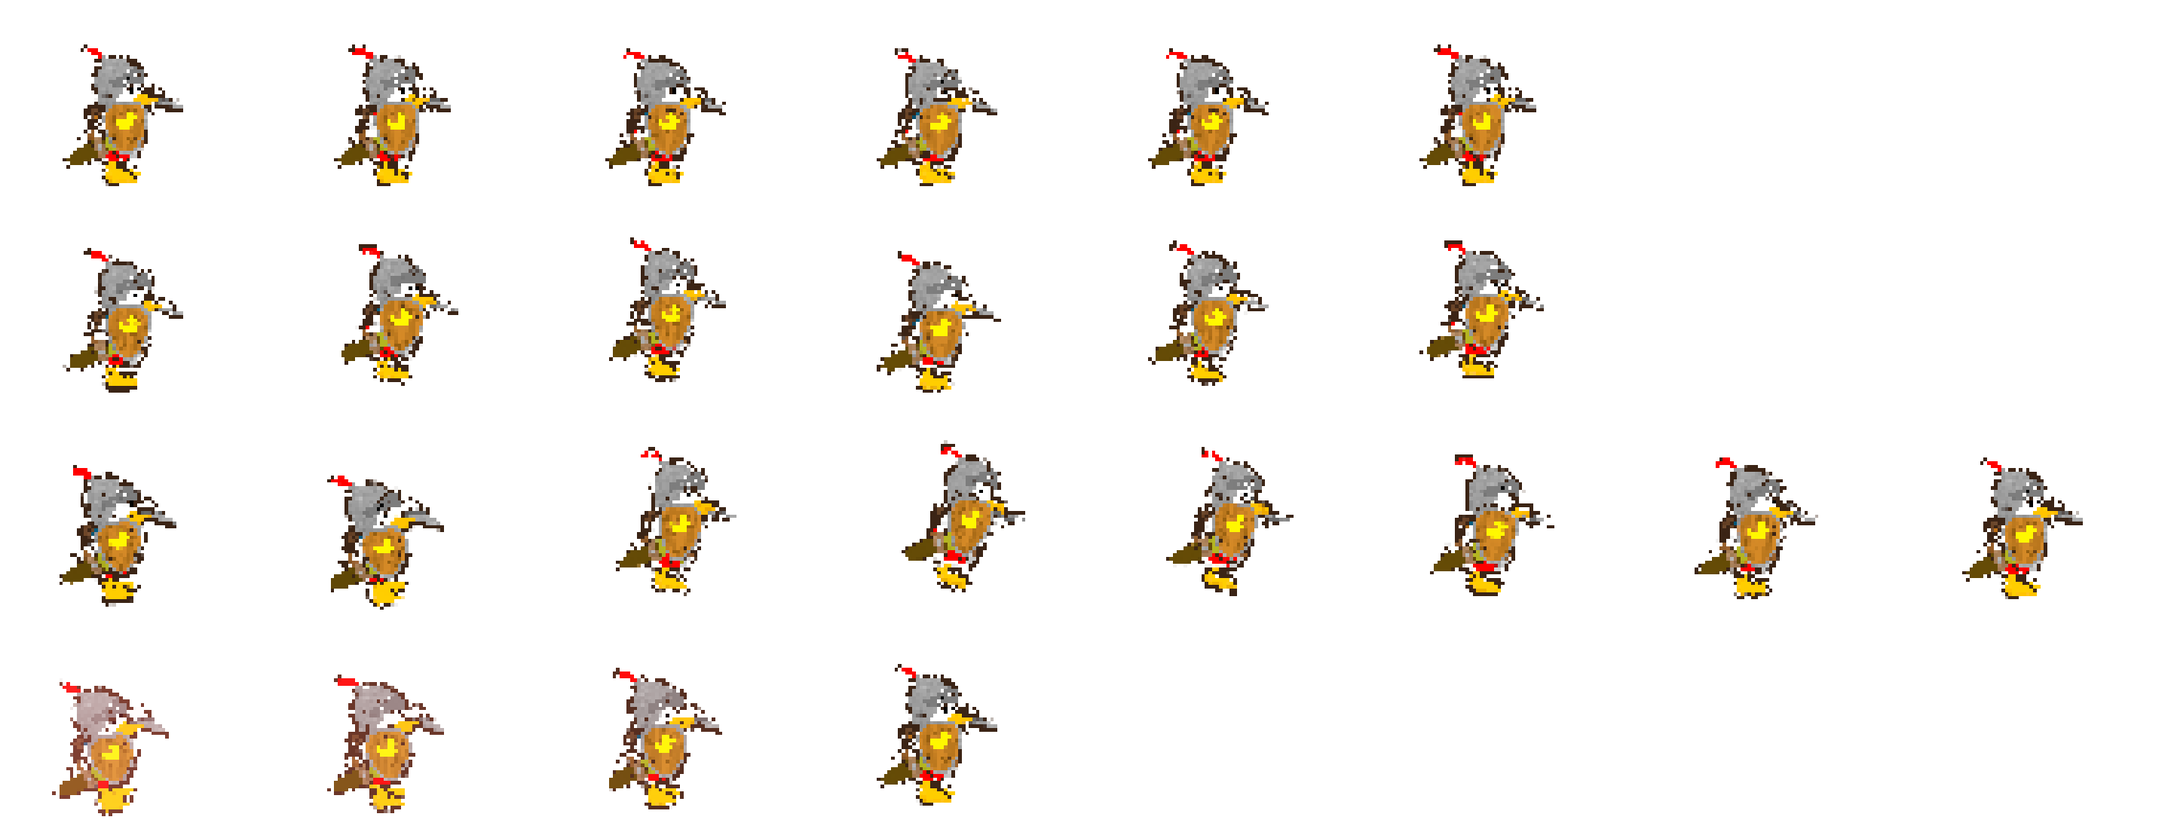
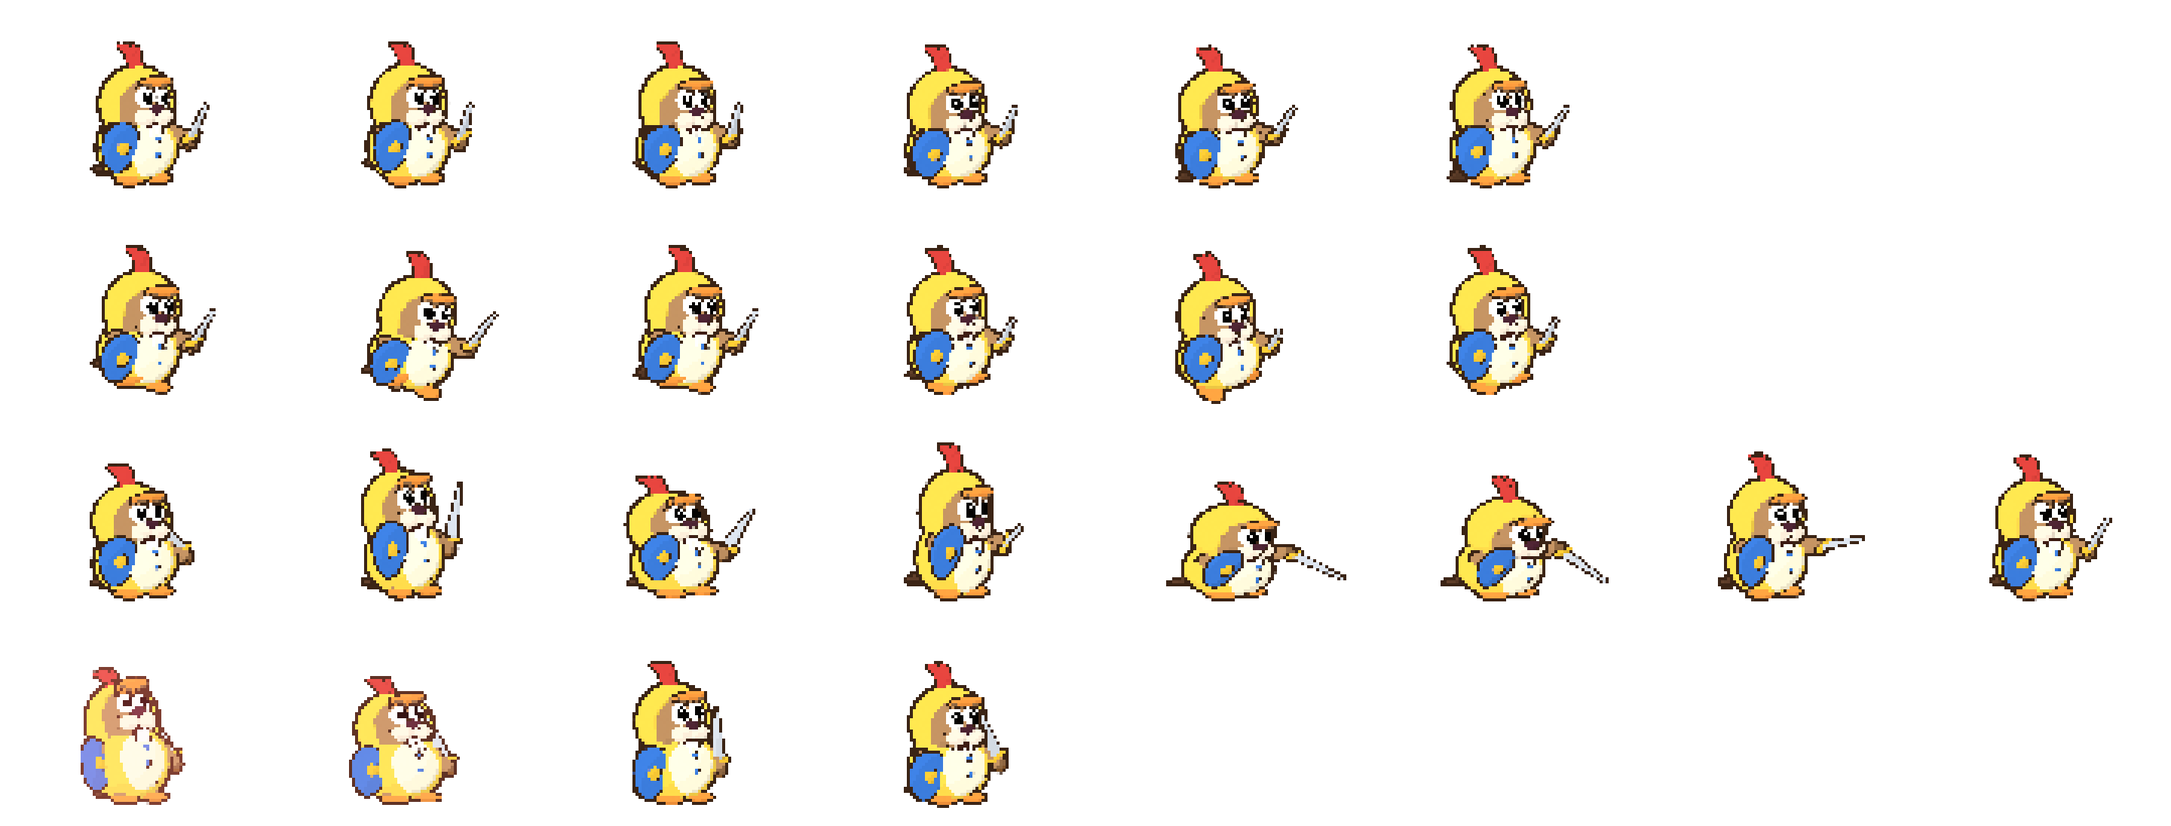
art(allies): 상점 전용 동료 넷을 비버 동료와 같은 몸 + 동물 옷으로 — 종마다 특색 소품
2026-11-26 사용자: "동료들 캐릭터랑 풍 비슷한 리소스로 마저 수정" → 대조 시트를 보고 "Sketchfab 줄은 일관성이 깨진다 · 조금 더 특색 있게".
Sketchfab 동물(토끼 · 고양이 · 기사 오리 · 다람쥐)은 몸 비율 · 그림결이 비버 동료와 따로 놀았다. 같은 비버 몸(beaver_kit)에 주인공 스킨과 같은 두건 옷(lib/suit_kit)을 입히고 종마다 한눈에 갈리는 소품을 더했다.
- suit_kit: cat(작은 세모 귀 · 긴 꼬리) · duck(넓적한 부리 챙 · 꽁지깃) · squirrel(작은 귀 · 머리 높이까지 말린 털 꼬리) + suit_extras(상점 넷만 — 주인공 스킨 그대로):
  보니 = 접힌 한쪽 귀 · 귀 꽃 · 볼 홍조 · 당근 지팡이 / 감자 = 회색 얼굴 · 수염 · 방울 목걸이 · 젤리 앞발 장갑 / 덕 = 붉은 깃 장식 · 주황 물갈퀴 · 방패 · 검 / 레드 = 두건 도토리 · 볼주머니 · 도토리 새총
- beaver.weapon: carrot · slingshot 두 종 더함
- roster_ext 에 넷(역할 · 속성은 allyRoster 그대로), render_anim2 → assemble-anim2(비버 배율 k 0.346 그대로) 셀 · 도트 시트
- sketchfab_monsters MODELS 의 상점 동료 넷 · 크레딧 두 곳의 그 넷 줄은 뺐다(다시 굽으면 Sketchfab 그림으로 덮이지 않게)

검사: verify-systems · verify-no-missing-art · verify-party-motion · verify-ia-move 통과, 사냥터 · 동료 탭 캡처

diff --git a/src/ui/credits.ts b/src/ui/credits.ts
@@ -15,11 +15,6 @@ export const SKETCHFAB_CREDITS: readonly ModelCredit[] = [
   { title: "Cartoon fallen tree", author: "neon_dust", url: "https://sketchfab.com/3d-models/cartoon-fallen-tree-85be5e12759d460cb5f1f0d7a4c109b6", use: "사냥터 바닥 쓰러진 통나무(숲)" },
   { title: "Tree Stump stylized", author: "makcutka250", url: "https://sketchfab.com/3d-models/tree-stump-stylized-adb24e49311b48e69a95c3a5324817ec", use: "사냥터 바닥 그루터기(초원 · 숲)" },
   { title: "Cactus | Pack", author: "YadroGames", url: "https://sketchfab.com/3d-models/cactus-pack-588596f1601d48e6ad4cb24b31c3f33c", use: "사냥터 바닥 선인장(폐허)" },
-  // 상점 전용 동료 넷(2026-11-24, allyRoster shop — 렌더 sketchfab_monsters.py kind='ally', 칸마다 좌우를 뒤집어 오른쪽을 본다)
-  { title: "Cute Bunny", author: "Minimoku", url: "https://sketchfab.com/3d-models/cute-bunny-7d30845d69c4474ebeddd177df6b7f02", use: "상점 동료 '솜털 토끼 보니'" },
-  { title: "Just a Hungry Cat", author: "Coco Jinjo", url: "https://sketchfab.com/3d-models/just-a-hungry-cat-97913cc5c44e4e6793385b988aac97c1", use: "상점 동료 '밤고양이 감자'" },
-  { title: "John, The Knight Duck (Armored)", author: "TheKnightDuck", url: "https://sketchfab.com/3d-models/john-the-knight-duck-armored-f976354f020949bf8cd0380ea0837b14", use: "상점 동료 '방패기사 덕'" },
-  { title: "Low-Poly Squirrel Character (Game-Ready, Rigged)", author: "SomeNortherner", url: "https://sketchfab.com/3d-models/low-poly-squirrel-character-game-ready-rigged-7983c9e011ad427fab0c428ff84b3ddb", use: "상점 동료 '도토리 다람쥐 레드'" },
   // 보석 주인공 캐릭터(2026-11-25, art-gen/blender/lib/sf_rig.py · render_anim2 char@fox — 비버 자세 값을 여우 뼈에 옮겨 렌더)
   { title: "Cartoon Character", author: "MartinDL", url: "https://sketchfab.com/3d-models/cartoon-character-c951392387944060966ac6e8e5cfd2e3", use: "주인공 캐릭터 '여우 모험가'" },
 ];

diff --git a/art-gen/blender/lib/suit_kit.py b/art-gen/blender/lib/suit_kit.py
@@ -4,12 +4,14 @@
 모양은 우리 세계(비버) 것으로 — 참고 그림의 캐릭터를 옮기지 않는다:
   dragon 흑룡(굽은 뿔 둘 · 등 가시 · 꼬리 가시) / chick 새벽 병아리(볏 · 부리 챙 · 작은 날개) /
   fox 여우(큰 세모 귀 · 흰 귀 안 · 흰 끝 꼬리) / bunny 눈토끼(긴 귀 · 솜 꼬리 · 눈송이 단추)
+  상점 동료 넷(2026-11-26, 사용자: "동료들 캐릭터랑 풍 비슷한 리소스로" — Sketchfab 동물 대신 비버 동료와 같은 몸에 옷):
+  cat 고양이(작은 세모 귀 · 길고 가는 꼬리) / duck 오리(넓적한 부리 챙 · 꽁지깃 — 볏 없음) / squirrel 다람쥐(작은 귀 · 크게 말린 털 꼬리)
 돌려주는 것: [(뼈 이름, 물체)]"""
 import math
 from mathutils import Vector, Euler
 
 from lib import bcommon as C
-from lib.beaver import HEAD_C, HEAD_R, BODY_C, BODY_R, OUT, _accent, _shell, spline, interp
+from lib.beaver import HEAD_C, HEAD_R, BODY_C, BODY_R, HAND_L, HAND_R, OUT, _accent, _shell, spline, interp
 
 TOP = HEAD_C + Vector((0, 0.04, HEAD_R[2] * 1.06 + 0.02))
 
@@ -29,6 +31,53 @@ def _ear(name, base, d, L, r, m_out, m_in, coll, flat=0.45):
         rel = v.co - base
         v.co = base + Vector((rel.x, rel.y * flat * 0.5 - r * flat * 0.6, rel.z))
     out.append(oi)
+    return out
+
+
+
+def _extras(kind, cfg, m, ml, ma, coll):
+    """상점 동료 넷의 특색(2026-11-26, 사용자: "조금 더 특색 있는 모델") — 같은 비버 몸 · 옷 위에 종마다 한눈에 갈리는 소품. cfg suit_extras 일 때만(주인공 스킨은 그대로)"""
+    out = []
+    face = HEAD_C + Vector((0, -HEAD_R[1] * 0.86, -0.07))   # 주둥이 둘레(볼) 높이
+    neck = Vector((0, BODY_C.y - 0.01, HEAD_C.z - HEAD_R[2] * 0.86))
+    if kind == 'cat':
+        ink = _accent('whisker', '#2a1e1a', rough=0.6)
+        for sx in (-1, 1):   # 수염 셋 — 볼에서 바깥으로 살짝 퍼진다
+            for k, dz in enumerate((0.03, 0.0, -0.03)):
+                a = face + Vector((sx * 0.1, -0.02, dz))
+                b = a + Vector((sx * 0.17, 0.03, dz * 1.6))
+                out.append(('head', C.mesh_obj(f'whisker{sx}{k}', C.tube([a, b], 0.006, seg=5), ink, coll)))
+        out.append(('body', C.mesh_obj('collar', C.torus(neck, 0.21, 0.025, seg=36), _accent('collar', '#d8403a', rough=0.5), coll, outline=OUT * 0.5)))
+        bell = neck + Vector((0, -0.21, -0.03))
+        out.append(('body', C.mesh_obj('bell', C.ellipsoid(bell, (0.045, 0.045, 0.045)), _accent('bell', '#f2c232', rough=0.3, metal=0.7), coll, outline=OUT * 0.5)))
+        pad = _accent('pad', '#ffb0c4', rough=0.6)
+        for side, hp in (('L', HAND_L), ('R', HAND_R)):   # 큰 앞발 장갑 + 분홍 젤리
+            out.append((f'hand.{side}', C.mesh_obj(f'mitt{side}', C.ellipsoid(hp + Vector((0, -0.01, 0)), (0.085, 0.08, 0.08)), ml, coll, outline=OUT * 0.7)))
+            out.append((f'hand.{side}', C.mesh_obj(f'mittpad{side}', C.ellipsoid(hp + Vector((0, -0.08, -0.005)), (0.04, 0.012, 0.035)), pad, coll)))
+    elif kind == 'duck':
+        top = TOP + Vector((0, 0.02, 0.0))
+        for k in range(3):   # 기사 깃털 장식 — 정수리에서 뒤로 넘어가는 붉은 깃 셋
+            pts = spline([top + Vector(((k - 1) * 0.03, 0, -0.02)), top + Vector(((k - 1) * 0.04, 0.08, 0.12)), top + Vector(((k - 1) * 0.06, 0.2, 0.16))], 10)
+            out.append(('head', C.mesh_obj(f'plume{k}', C.tube(pts, interp([0.035, 0.04, 0.012], len(pts)), seg=10), _accent('plume', '#d8403a', rough=0.6), coll, outline=OUT * 0.6)))
+        web = _accent('web', '#ff9a3d', rough=0.5)
+        for sx, side in ((-1, 'R'), (1, 'L')):   # 주황 물갈퀴 발
+            out.append((f'leg.{side}', C.mesh_obj(f'web{side}', C.ellipsoid(Vector((sx * 0.15, -0.12, 0.024)), (0.11, 0.14, 0.032)), web, coll, outline=OUT * 0.7)))
+    elif kind == 'squirrel':
+        nut = TOP + Vector((0.0, 0.02, 0.06))   # 두건 꼭대기 도토리
+        out.append(('head', C.mesh_obj('hood_acorn', C.ellipsoid(nut, (0.06, 0.06, 0.075), egg=-0.3), _accent('nut', '#c8783a', rough=0.45), coll, outline=OUT * 0.6)))
+        out.append(('head', C.mesh_obj('hood_acorn_cap', C.ellipsoid(nut + Vector((0, 0, 0.05)), (0.068, 0.068, 0.035)), _accent('cap', '#7a4a26', rough=0.7), coll, outline=OUT * 0.5)))
+        for sx in (-1, 1):   # 볼주머니 — 도토리를 문 통통한 볼
+            out.append(('head', C.mesh_obj(f'pouch{sx}', C.ellipsoid(face + Vector((sx * 0.13, 0.02, -0.01)), (0.07, 0.05, 0.055)), ml, coll, outline=OUT * 0.4)))
+    elif kind == 'bunny':
+        flower = TOP + Vector((-0.16, -0.02, 0.02))   # 귀 밑동 꽃 한 송이
+        petal = _accent('petal', '#ff9ab8', rough=0.6)
+        for k in range(5):
+            a = 2 * math.pi * k / 5
+            out.append(('head', C.mesh_obj(f'petal{k}', C.ellipsoid(flower + Vector((math.cos(a) * 0.035, -0.01, math.sin(a) * 0.035)), (0.025, 0.01, 0.025)), petal, coll, outline=OUT * 0.3)))
+        out.append(('head', C.mesh_obj('petal_core', C.ellipsoid(flower + Vector((0, -0.02, 0)), (0.018, 0.01, 0.018)), _accent('core', '#ffd34d', rough=0.5), coll)))
+        blush = _accent('blush', '#ffb0c4', rough=0.7)
+        for sx in (-1, 1):
+            out.append(('head', C.mesh_obj(f'blush{sx}', C.ellipsoid(face + Vector((sx * 0.15, -0.005, 0.02)), (0.04, 0.008, 0.025)), blush, coll)))
     return out
 
 
@@ -88,10 +137,21 @@ def build(cfg, coll):
     elif kind == 'fox':
         for sx in (-1, 1):
             out.extend(('head', o) for o in _ear(f'suit_ear{sx}', TOP + Vector((sx * 0.2, 0.0, -0.08)), (sx * 0.42, 0.05, 1), 0.24, 0.1, m, ml, coll))
+    elif kind == 'cat':
+        for sx in (-1, 1):
+            out.extend(('head', o) for o in _ear(f'suit_ear{sx}', TOP + Vector((sx * 0.19, 0.0, -0.07)), (sx * 0.32, 0.05, 1), 0.17, 0.085, m, ml, coll))
+    elif kind == 'squirrel':
+        for sx in (-1, 1):
+            out.extend(('head', o) for o in _ear(f'suit_ear{sx}', TOP + Vector((sx * 0.17, 0.02, -0.06)), (sx * 0.22, 0.04, 1), 0.13, 0.075, m, ml, coll, flat=0.6))
+    elif kind == 'duck':   # 넓적한 부리 챙 — 이마 위 두건 앞 가장자리에서 앞으로 납작하게
+        bp, bn = C.on_ellipsoid(HEAD_C + Vector((0, 0.04, 0.02)), (HEAD_R[0] * 1.08, HEAD_R[1] * 1.1, HEAD_R[2] * 1.06), Vector((0, -1, 0.9)))
+        out.append(('head', C.mesh_obj('suit_bill', C.ellipsoid(bp + bn * 0.05 + Vector((0, -0.03, -0.02)), (0.16, 0.1, 0.035), rot=Euler((math.radians(-18), 0, 0))), _accent('suitbk', '#ff9a3d', rough=0.4), coll, outline=OUT * 0.6)))
     elif kind == 'bunny':
         for sx in (-1, 1):
             base = TOP + Vector((sx * 0.12, 0.02, -0.04))
             pts = spline([base, base + Vector((sx * 0.06, 0.02, 0.16)), base + Vector((sx * 0.16, 0.08, 0.26))], 12)   # 끝이 옆으로 늘어진 긴 귀
+            if cfg.get('suit_extras') and sx > 0:   # 상점 보니 — 한쪽 귀가 접혀 내려온다
+                pts = spline([base, base + Vector((0.08, 0.02, 0.14)), base + Vector((0.22, 0.06, 0.1)), base + Vector((0.28, 0.08, -0.02))], 12)
             out.append(('head', C.mesh_obj(f'suit_ear{sx}', C.tube(pts, interp([0.06, 0.065, 0.04], len(pts)), seg=12), m, coll, outline=OUT * 0.8)))
             inner = [q + Vector((0, -0.035, 0)) for q in pts]
             out.append(('head', C.mesh_obj(f'suit_earin{sx}', C.tube(inner, interp([0.03, 0.035, 0.018], len(inner)), seg=10), _accent('suitpink', '#ffc4d6', rough=0.7), coll)))
@@ -103,8 +163,18 @@ def build(cfg, coll):
         out.append(('tail', C.mesh_obj('suit_tailtip', C.ellipsoid(pts[-1] + Vector((0, -0.01, 0.02)), (0.07, 0.07, 0.08), egg=0.2), ml, coll, outline=OUT * 0.7)))
     elif kind == 'bunny':
         out.append(('tail', C.mesh_obj('suit_tail', C.ellipsoid(tb + Vector((0, 0.02, 0.06)), (0.09, 0.08, 0.09)), ml, coll, outline=OUT * 0.7)))
-    elif kind == 'chick':
+    elif kind == 'cat':   # 길고 가는 꼬리 — 뒤로 뻗었다 위로 휘고 끝이 밝다
+        pts = spline([tb, tb + Vector((0, 0.14, 0.02)), tb + Vector((0.02, 0.24, 0.16)), tb + Vector((0.03, 0.22, 0.32)), tb + Vector((0.02, 0.14, 0.4))], 16)
+        out.append(('tail', C.mesh_obj('suit_tail', C.tube(pts, interp([0.045, 0.04, 0.036, 0.034], len(pts)), seg=12), m, coll, outline=OUT)))
+        out.append(('tail', C.mesh_obj('suit_tailtip', C.ellipsoid(pts[-1], (0.045, 0.045, 0.05)), ml, coll, outline=OUT * 0.6)))
+    elif kind == 'squirrel':   # 크게 말린 털 꼬리 — 등을 따라 머리 높이까지 S 자로, 굵다
+        pts = spline([tb, tb + Vector((0, 0.14, 0.04)), tb + Vector((0, 0.3, 0.22)), tb + Vector((0, 0.34, 0.48)), tb + Vector((0, 0.24, 0.7)), tb + Vector((0, 0.12, 0.74))], 22)   # 머리 높이까지 — 낮으면 3/4 화면에서 몸 뒤에 숨었다
+        out.append(('tail', C.mesh_obj('suit_tail', C.tube(pts, interp([0.07, 0.14, 0.18, 0.17, 0.13, 0.07], len(pts)), seg=16), m, coll, outline=OUT)))
+        out.append(('tail', C.mesh_obj('suit_tailin', C.tube([q + Vector((0, -0.06, 0)) for q in pts[5:18]], interp([0.06, 0.1, 0.07], 13), seg=12), ml, coll)))
+    elif kind in ('chick', 'duck'):
         for k in range(3):
             d = Vector(((k - 1) * 0.5, 1, 0.6)).normalized()
             out.append(('tail', C.mesh_obj(f'suit_tf{k}', C.ellipsoid(tb + d * 0.08, (0.03, 0.08, 0.03), rot=C.look_rot(d)), m, coll, outline=OUT * 0.5)))
+    if cfg.get('suit_extras'):
+        out.extend(_extras(kind, cfg, m, ml, ma, coll))
     return out

diff --git a/art-gen/blender/lib/beaver.py b/art-gen/blender/lib/beaver.py
@@ -325,6 +325,24 @@ def weapon(kind, at, coll, color='#cfd6df', accent='#8a5a2b'):
         out.append(C.mesh_obj('g_handle', C.tube([g + Vector((0, 0, -0.04)), g + Vector((0, 0, 0.14))], 0.018, seg=12), wood, coll, outline=OUT * 0.6))
         out.append(C.mesh_obj('g_ring', C.torus(g + Vector((0, 0, 0.23)), 0.08, 0.016, rot=Euler((math.radians(90), 0, 0))), gold, coll, outline=OUT * 0.5))
         out.append(C.mesh_obj('g_lens', C.ellipsoid(g + Vector((0, 0, 0.23)), (0.07, 0.01, 0.07)), _accent('lens', color, rough=0.05, emit=color, es=1.0), coll))
+    elif kind == 'carrot':   # 당근 지팡이(상점 동료 보니, 2026-11-26) — 아래 뾰족한 끝을 쥐고 위로 굵어지는 주황 몸 · 홈 · 초록 잎 셋
+        orange = _accent('carrot', '#ff8a2a', rough=0.5)
+        out.append(C.mesh_obj('carrot', C.cone(g + Vector((0, 0, 0.13)), 0.0, 0.075, 0.36, seg=16, rot=Euler((math.pi, 0, 0))), orange, coll, outline=OUT * 0.7))
+        for k, z in enumerate((0.06, 0.14, 0.22)):
+            out.append(C.mesh_obj(f'carrot_ring{k}', C.torus(g + Vector((0, 0, z)), 0.02 + 0.045 * (z + 0.05) / 0.36, 0.006, seg=24), _accent('carrotln', '#d8661a', rough=0.6), coll))
+        for k in range(3):
+            a = (k - 1) * 0.45
+            out.append(C.mesh_obj(f'carrot_leaf{k}', C.ellipsoid(g + Vector((math.sin(a) * 0.05, 0, 0.36 + math.cos(a) * 0.06)), (0.025, 0.012, 0.075), rot=Euler((0, a, 0))), _accent('leaf', '#5ac83a', rough=0.5), coll, outline=OUT * 0.5))
+    elif kind == 'slingshot':   # 새총(상점 동료 레드, 2026-11-26) — Y 자 나무 · 고무줄 · 도토리 한 알
+        out.append(C.mesh_obj('ss_grip', C.tube([g + Vector((0, 0, -0.06)), g + Vector((0, 0, 0.1))], 0.022, seg=10), wood, coll, outline=OUT * 0.6))
+        tips = [g + Vector((sx * 0.08, 0, 0.24)) for sx in (-1, 1)]
+        for k, t in enumerate(tips):
+            out.append(C.mesh_obj(f'ss_prong{k}', C.tube([g + Vector((0, 0, 0.1)), t], 0.02, seg=10), wood, coll, outline=OUT * 0.6))
+        pouch = g + Vector((0, 0.05, 0.2))
+        for k, t in enumerate(tips):
+            out.append(C.mesh_obj(f'ss_band{k}', C.tube([t, pouch], 0.008, seg=6), _accent('band', '#d8403a', rough=0.5), coll))
+        out.append(C.mesh_obj('ss_acorn', C.ellipsoid(pouch + Vector((0, 0.01, -0.01)), (0.035, 0.035, 0.042), egg=-0.3), _accent('nut', '#c8783a', rough=0.45), coll, outline=OUT * 0.5))
+        out.append(C.mesh_obj('ss_cap', C.ellipsoid(pouch + Vector((0, 0.01, 0.02)), (0.04, 0.04, 0.02)), _accent('cap', '#7a4a26', rough=0.7), coll, outline=OUT * 0.4))
     # 굵기만 (2026-11-19 리소스 피드백 ⑤: 사냥터 88px 에서 무기가 가는 막대라 손에 든 게 거의 안 보였다) — 칼날 · 자루 · 손잡이를 무기 축(+Z)에 수직으로만 키운다
     th = WEAPON_THICK.get(kind, 1.0)
     if th != 1.0:

diff --git a/art-gen/blender/roster_ext.py b/art-gen/blender/roster_ext.py
@@ -67,6 +67,12 @@ NEW_ALLIES = {
     'leviathan': dict(TEAL, form=dict(body=(1.0, 1.28), eyes='sharp'), aura='double', aura_color='#3ae0ff', hat='crown', hat_color='#3ae0ff', band='#1a6ad8', over='finears', over_color='#5ae8ff', back='fin', back_color='#2ab8d8', tail_fx='fish', tail_color='#3ae0ff', weapon_l='trident', weapon_color='#7af0ff', role='melee'),   # 바다 왕 — 지느러미 귀 · 등지느러미 · 물고기 꼬리
     # ── 월간 한정 (2026-11-16, src/titans/limitedAllies.ts) — 신화 등급 장식(후광 고리 · 큰 날개)에 단풍 테마 ──
     'autumn': dict(RUST, form=dict(body=(0.9, 1.18), ears='tufted', eyes='sharp', tail='plume'), hat='leaf', hat_color='#e0602a', hat_color2='#a8401c', scarf='#f2c232', back='leafwings', back_color='#e0602a', back_color2='#f2a23a', wing_len=0.5, aura='ring', aura_color='#f29a2a', weapon_l='bow', weapon_color='#8a5a2b', role='bow'),   # 단풍 사냥꾼 — 큰 단풍잎 모자 · 낙엽 날개
+    # ── 상점 전용 넷 (2026-11-26, 사용자: "동료들 캐릭터랑 풍 비슷한 리소스로 마저 수정") — Sketchfab 동물(sketchfab_monsters kind='ally')은
+    # 그림결 · 몸 비율이 비버 동료와 따로 놀았다. 같은 비버 몸에 동물 옷(lib/suit_kit — 주인공 스킨과 같은 두건 옷)을 입힌다. 고양이 · 다람쥐는 옷 꼬리만(비버 노 꼬리 숨김)
+    'bunny': dict(PALE, form=dict(ears='none', eyes='sleepy'), suit='bunny', suit_extras=True, hat_color='#f6efe6', suit_light='#ffffff', suit_accent='#ff9ab8', weapon_r='carrot', role='healer'),   # 희귀 바람 치유 — 솜털 토끼 옷 · 접힌 한쪽 귀 · 귀 꽃 · 볼 홍조 · 당근 지팡이
+    'cat': dict(GRAY, form=dict(ears='none', eyes='sharp', tail='none'), suit='cat', suit_extras=True, hat_color='#3c3870', suit_light='#f2e6d0', suit_accent='#ffd34d', role='melee'),   # 희귀 불 근접 — 밤고양이 옷 · 수염 · 방울 목걸이 · 큰 앞발 장갑(젤리) 냥냥 펀치
+    'duck': dict(PALE, form=dict(ears='none', brows='fierce'), suit='duck', suit_extras=True, hat_color='#ffd84a', suit_light='#fff6d8', suit_accent='#3a7ad8', trim='#f2c232', weapon_r='sword', weapon_l='shield', weapon_l_color='#3a7ad8', role='tank'),   # 영웅 물 탱커 — 오리 옷 · 파란 방패 · 검
+    'squirrel': dict(RUST, form=dict(ears='none', tail='none'), suit='squirrel', suit_extras=True, hat_color='#c8562a', suit_light='#fff0dc', suit_accent='#7a4a26', trim='#f2c232', weapon_l='slingshot', role='bow'),   # 영웅 흙 원거리 — 붉은 다람쥐 옷 · 말린 꼬리 · 두건 도토리 · 볼주머니 · 도토리 새총
 }
 
 # 주 무기를 weapon_l(적 쪽 손)에 바로 적은 줄은 색도 weapon_l_color 로 옮긴다(anim2.main_left 는 weapon_r 가 있을 때만 바꾼다)

diff --git a/art-gen/blender/sketchfab_monsters.py b/art-gen/blender/sketchfab_monsters.py
@@ -54,11 +54,7 @@ MODELS = {
     'sf-werewolf': dict(file='b-werewolf.glb', h=1.6, yaw=-25, lift=0.0, action='Idle', boss=True),
     'sf-treefellow': dict(file='b-treefellow.glb', h=1.7, yaw=-60, lift=0.0, boss=True),
     # sf-stonegiant(b-bigguy.glb, Big Guy)은 셀로 그리면 머리 없이 검게 나와 뺐다
-    # 상점 전용 동료(2026-11-24, kind='ally') — 폴더 이름 = 동료 id(allyRoster NEW_ALLIES). 남의 콘셉트를 옮긴 모델 · 다른 IP 태그 모델은 뺐다
-    'bunny': dict(file='a-bunny.glb', h=1.0, yaw=-35, lift=0.0, kind='ally', dx=0.5, only='bunny1_'),
-    'squirrel': dict(file='a-squirrel.glb', h=1.0, yaw=162, lift=0.0, kind='ally', dx=0.5, arms=(0.36, 1.78, 72)),   # 뼈 없이 T 자세로 와서 팔을 어깨 축으로 내린다
-    'cat': dict(file='a-cat.glb', h=0.9, yaw=-30, lift=0.0, kind='ally', dx=0.5, only='Cat_'),   # 배경판 · 그릇 · 물고기는 뺀다
-    'duck': dict(file='a-duck.glb', h=1.0, yaw=-15, lift=0.0, kind='ally', dx=0.5, drop=('Plane004__0',)),   # 돌바닥 판은 뺀다
+    # 상점 동료 넷(bunny · squirrel · cat · duck)은 2026-11-26 비버 몸 + 동물 옷(roster_ext · lib/suit_kit, render_anim2)으로 바뀌어 뺐다 — 여기서 다시 굽으면 b3d2/<id> 를 Sketchfab 그림으로 덮는다
     'sf-insect': dict(file='b-insect.glb', h=1.2, yaw=90, lift=0.0, boss=True),
     'sf-magmahound': dict(file='b-magmahound.glb', h=1.3, yaw=0, lift=0.0, action='Idle', boss=True),
     'sf-iceelemental': dict(file='b-iceelemental.glb', h=1.7, yaw=0, lift=0.0, boss=True),

diff --git a/docs/CREDITS.md b/docs/CREDITS.md
@@ -21,10 +21,6 @@
 | 사냥터 바닥 쓰러진 통나무(숲) | Cartoon fallen tree | neon_dust | https://sketchfab.com/3d-models/cartoon-fallen-tree-85be5e12759d460cb5f1f0d7a4c109b6 | p-fallentree.glb |
 | 사냥터 바닥 그루터기(초원 · 숲) | Tree Stump stylized | makcutka250 | https://sketchfab.com/3d-models/tree-stump-stylized-adb24e49311b48e69a95c3a5324817ec | p-stump.glb |
 | 사냥터 바닥 선인장(폐허) | Cactus \| Pack | YadroGames | https://sketchfab.com/3d-models/cactus-pack-588596f1601d48e6ad4cb24b31c3f33c | p-cactus.glb |
-| 상점 동료 '솜털 토끼 보니' | Cute Bunny | Minimoku | https://sketchfab.com/3d-models/cute-bunny-7d30845d69c4474ebeddd177df6b7f02 | a-bunny.glb |
-| 상점 동료 '밤고양이 감자' | Just a Hungry Cat | Coco Jinjo | https://sketchfab.com/3d-models/just-a-hungry-cat-97913cc5c44e4e6793385b988aac97c1 | a-cat.glb |
-| 상점 동료 '방패기사 덕' | John, The Knight Duck (Armored) | TheKnightDuck | https://sketchfab.com/3d-models/john-the-knight-duck-armored-f976354f020949bf8cd0380ea0837b14 | a-duck.glb |
-| 상점 동료 '도토리 다람쥐 레드' | Low-Poly Squirrel Character (Game-Ready, Rigged) | SomeNortherner | https://sketchfab.com/3d-models/low-poly-squirrel-character-game-ready-rigged-7983c9e011ad427fab0c428ff84b3ddb | a-squirrel.glb |
 | 주인공 캐릭터 '여우 모험가' (보석 상품 — 비버 풍 처리 · 무기는 게임이 손에 얹음) | Cartoon Character | MartinDL | https://sketchfab.com/3d-models/cartoon-character-c951392387944060966ac6e8e5cfd2e3 | sfh-fox.glb |
 
 유물 · 상점 묶음 그림(보석 팩 · 재화 탭 상자 · 물약 · 비버 상자 · 성문 방어 보상 상자)은 2026-11-25 사용자 "아트 풍 일정" → "셀 그림으로 통일"로 원래 셀 그림으로 되돌렸다. 받은 모델(r-*.glb · i-*.glb)과 `art-gen/blender/sketchfab_icons.py` 는 남겨 두었지만 게임에는 쓰지 않는다 — 작가 목록은 git 이력(320ca5a2 · 1f89f798 · 5a2de5a3)에 있다.
